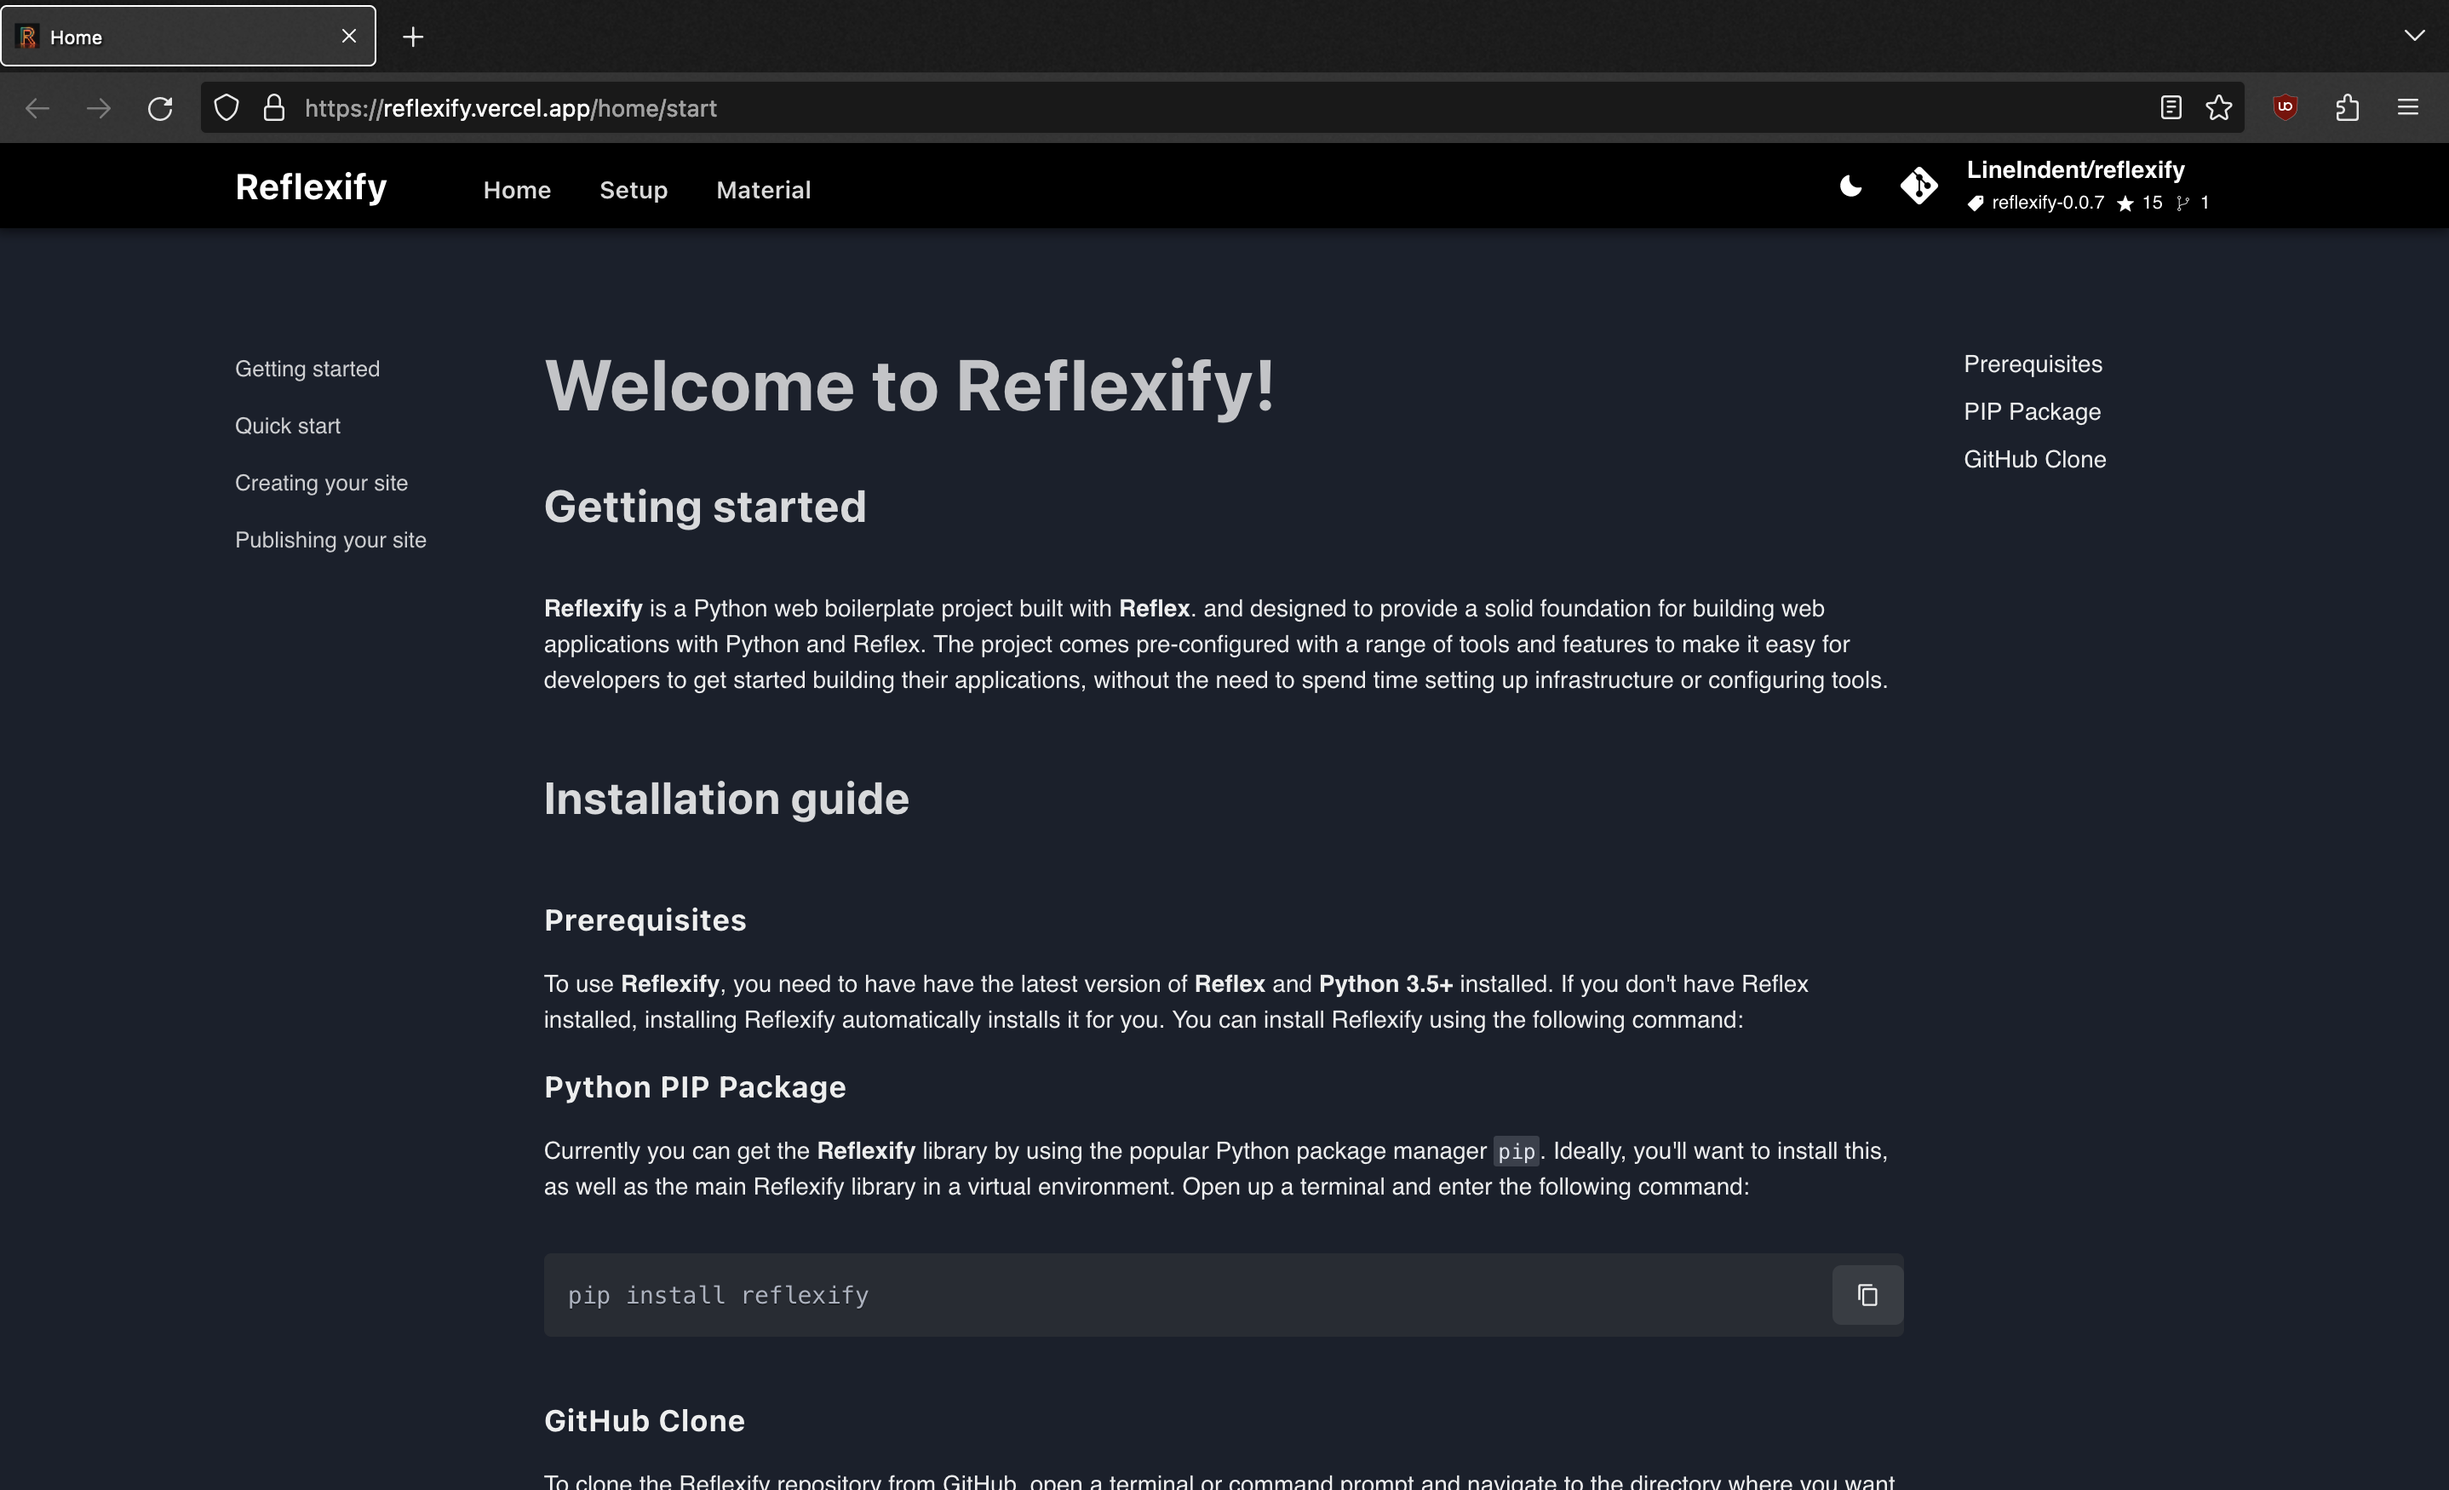
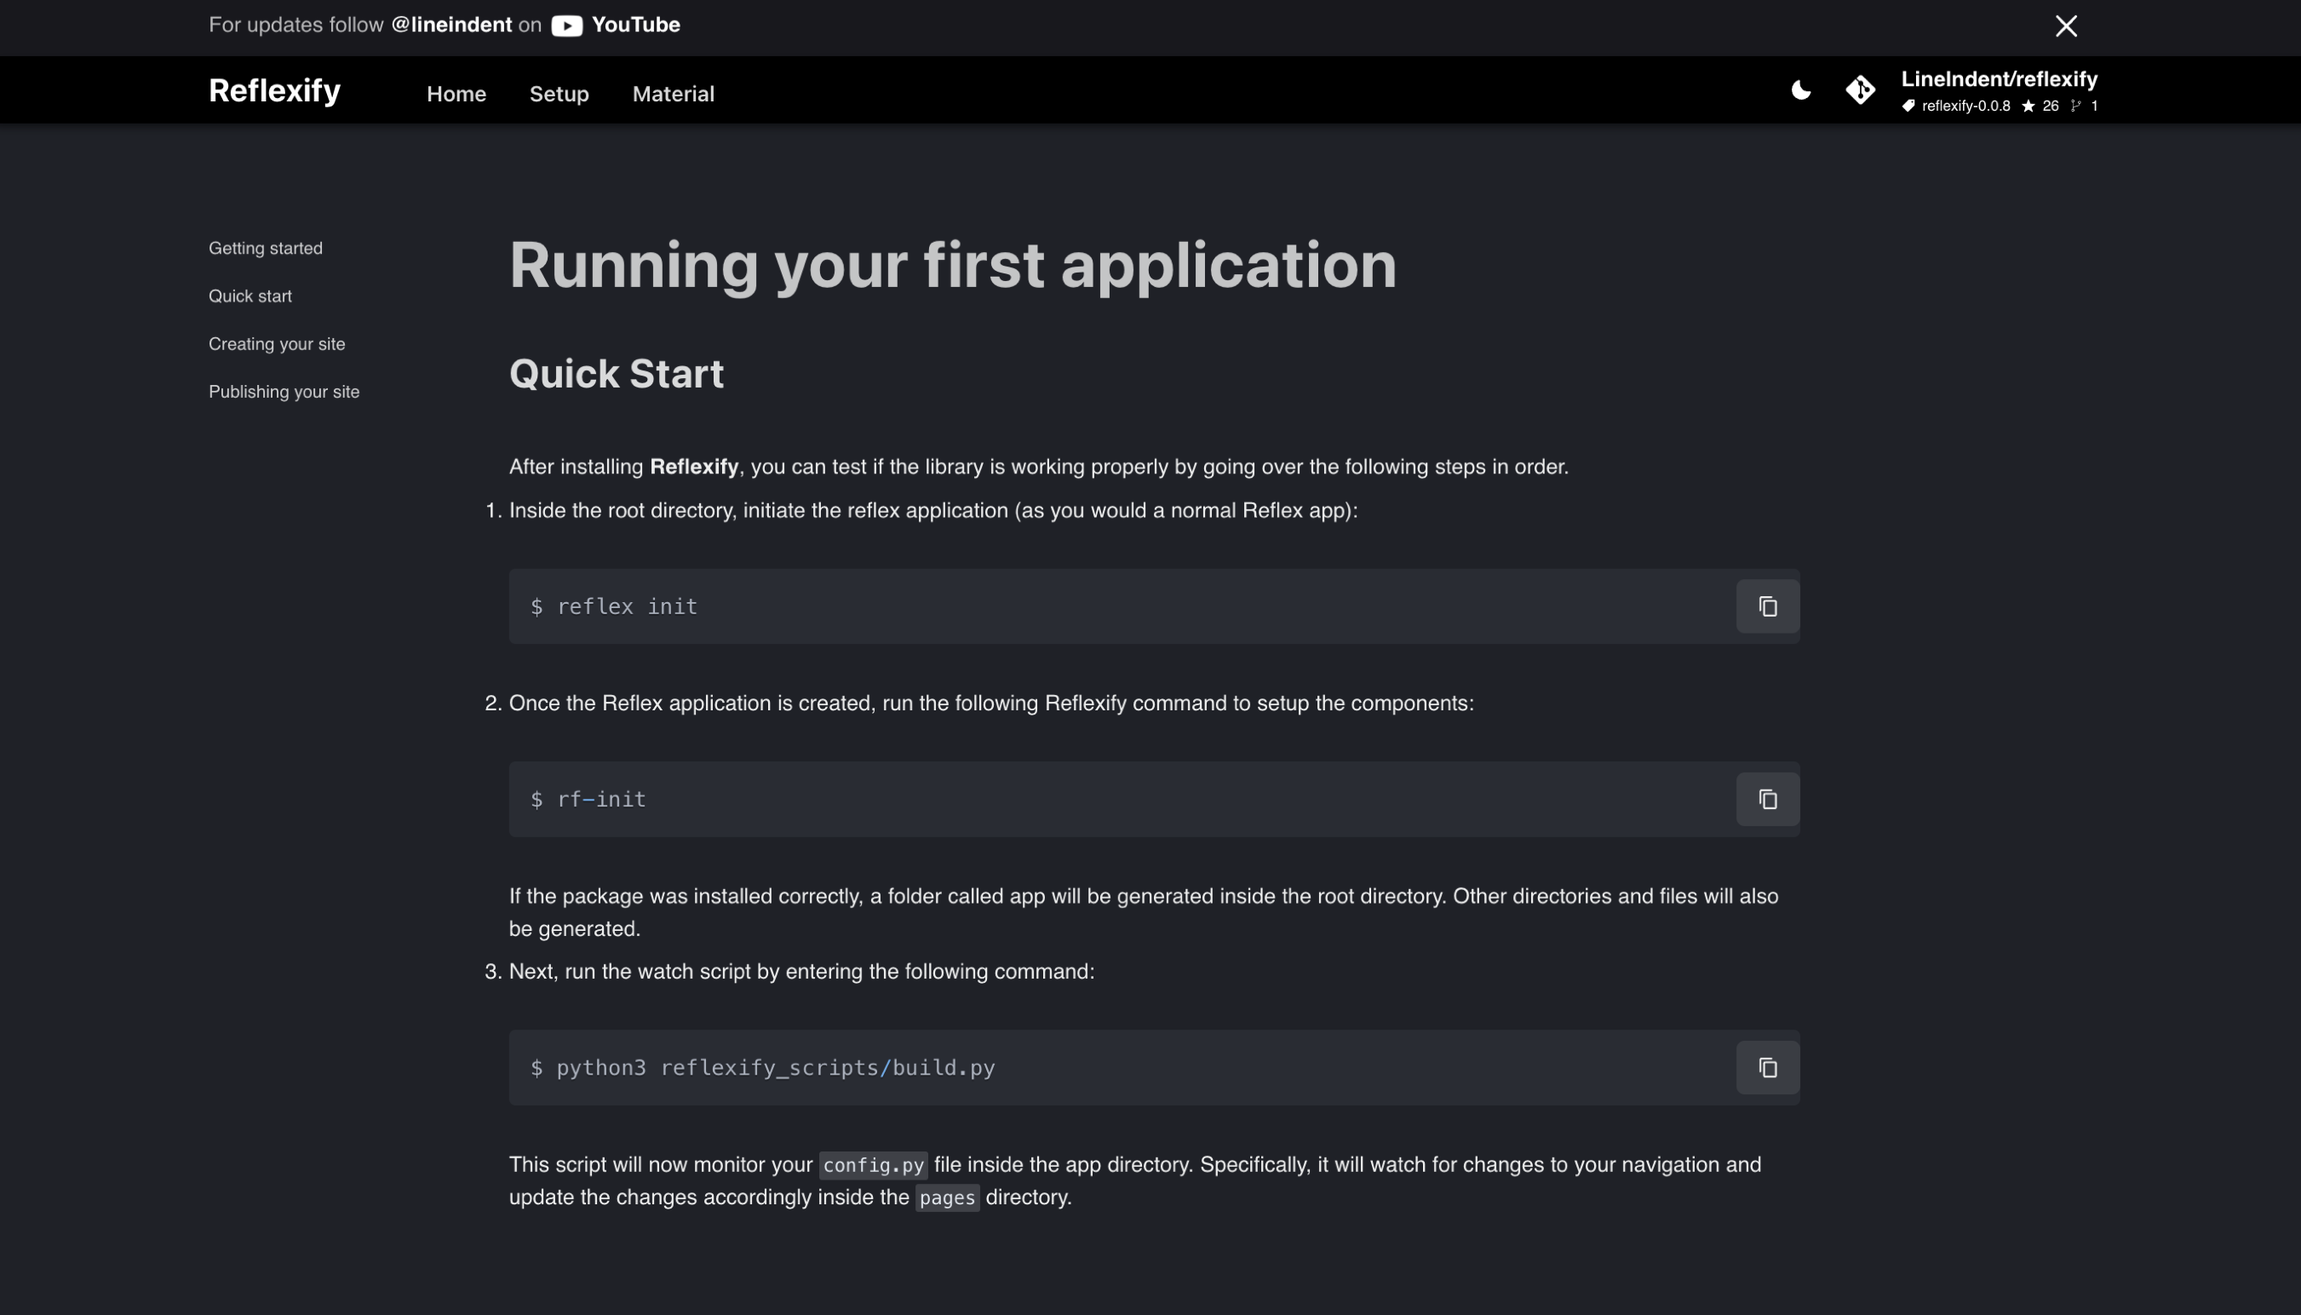
Update REflexify image

diff --git a/assets/repo.js b/assets/repo.js
@@ -1,0 +1,71 @@
+import fetch from 'node-fetch';
+
+const owner = 'LineIndent';
+const repoName = 'reflexify';
+
+// GitHub REST API URL to get the repository information
+const apiUrl = `https://api.github.com/repos/${owner}/${repoName}`;
+
+// Function to format a number in shorthand like 'k'
+function formatNumberShorthand(number) {
+    if (number >= 1000) {
+        return (number / 1000).toFixed(1) + 'k';
+    }
+    return number.toString();
+}
+
+
+// Function to fetch and display repository information, including the latest release
+async function getRepoInfo() {
+    try {
+        // Dynamically import the 'node-fetch' module as an ES module
+        // const fetch = (await import('../node-fetch')).default;
+
+
+        // Send an HTTP GET request to the GitHub API
+        const response = await fetch(apiUrl);
+        const repoInfo = await response.json();
+        
+        const name = document.getElementById("name")
+        console.log(name)
+        
+
+        // NOTE * KEEP BELOW CODE * 
+        // const response_html = await fetch(apiUrl);
+        // const html = await response_html.text();
+
+        // // Create a DOM using jsdom
+        // const { window } = new (await import('jsdom')).JSDOM(html);
+        // const document = window.document;
+        
+
+        // Check if the response contains the desired information
+        if (response.status === 200) {
+            const starsCount = repoInfo.stargazers_count;
+            const forksCount = repoInfo.forks_count;
+            
+            // NOTE * KEEP THE BELOW CODE *
+            // // Extract the latest release version
+            // const releaseElement = document.querySelector('.css-truncate.css-truncate-target.text-bold.mr-2');
+            // const latestRelease = releaseElement ? releaseElement.textContent.trim() : 'N/A';
+
+
+            // Fetch the latest release information
+            const releaseUrl = `${apiUrl}/releases/latest`;
+            const releaseResponse = await fetch(releaseUrl);
+            const releaseInfo = await releaseResponse.json();
+            const latestRelease = releaseInfo.tag_name;
+
+            console.log(`Stars: ${formatNumberShorthand(starsCount)}`);
+            console.log(`Forks: ${formatNumberShorthand(forksCount)}`);
+            console.log(`Latest Release: ${latestRelease}`);
+        } else {
+            console.log('Error fetching repository information.');
+        }
+    } catch (error) {
+        console.error("Error fetching data:", error);
+    }
+}
+
+// Call the function to get and display repository information
+getRepoInfo();
